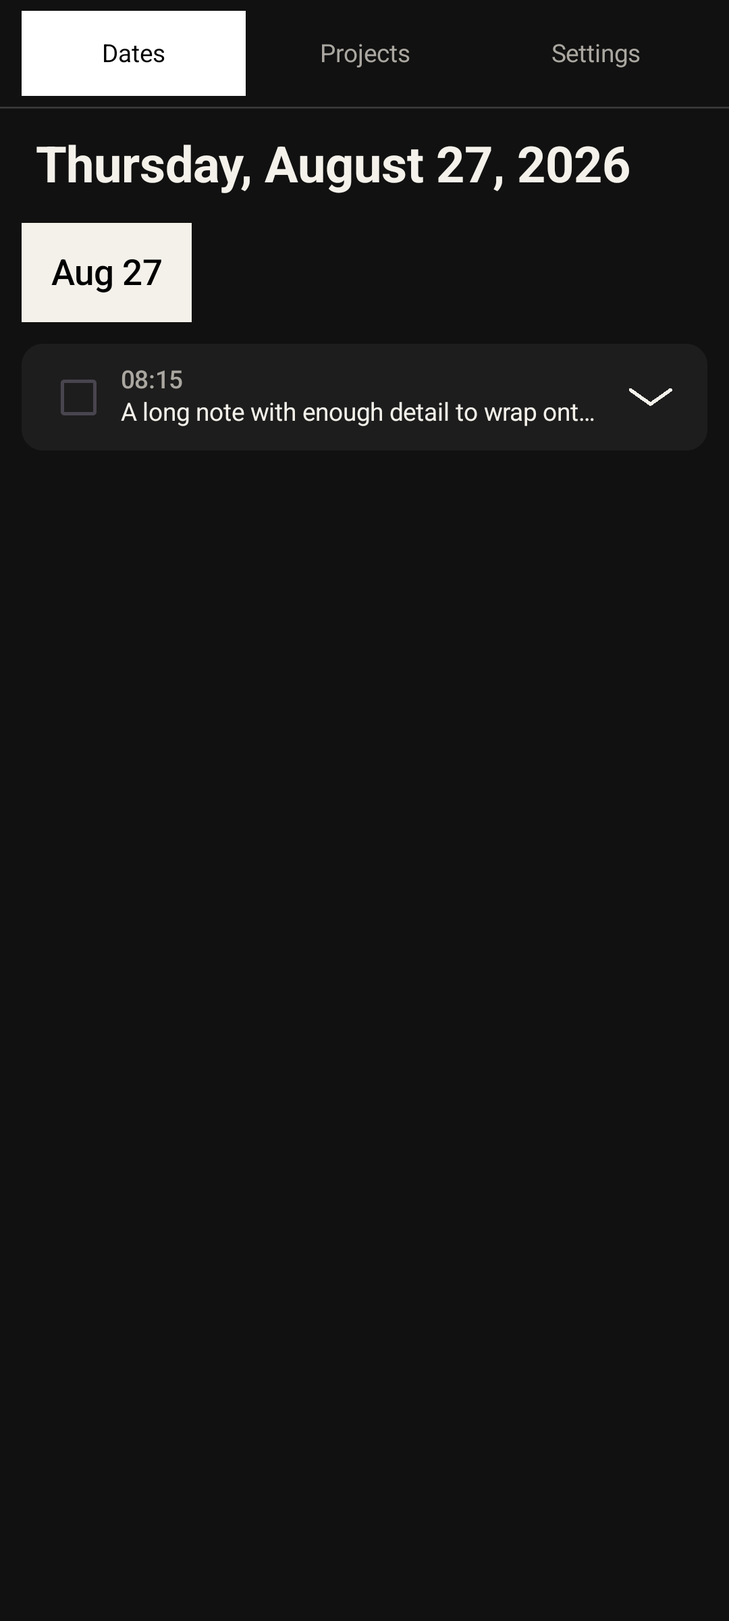
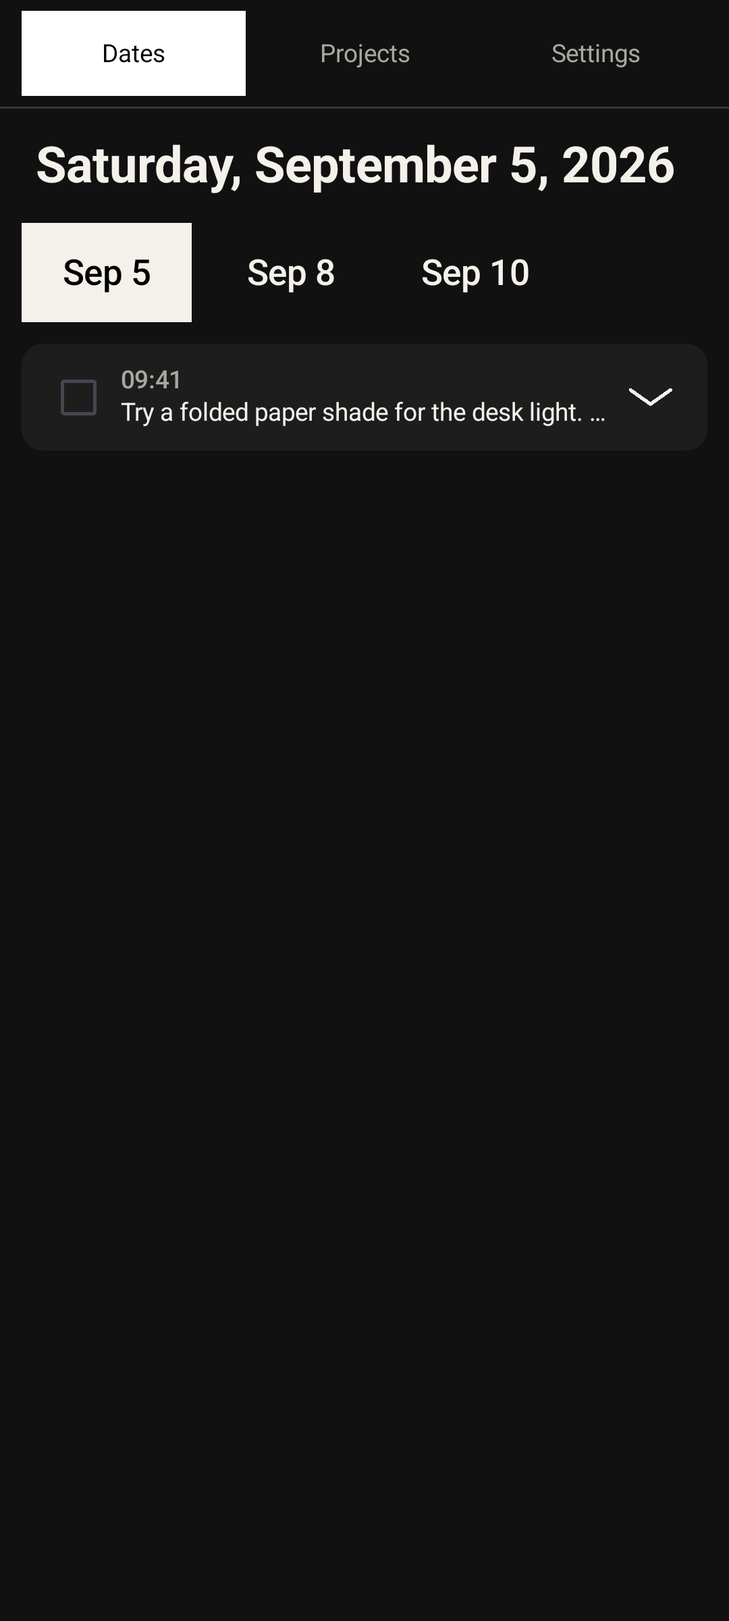
Release 1.0.13 with plain unselected Review dates

diff --git a/demos/sidenote-demo.html b/demos/sidenote-demo.html
@@ -1,18 +1,18 @@
 <!doctype html>
-<html lang="en"><head><meta charset="utf-8"><meta name="viewport" content="width=device-width,initial-scale=1"><meta name="color-scheme" content="dark"><meta name="sidenote-version" content="1.0.12"><title>SideNote · Interactive demo</title>
+<html lang="en"><head><meta charset="utf-8"><meta name="viewport" content="width=device-width,initial-scale=1"><meta name="color-scheme" content="dark"><meta name="sidenote-version" content="1.0.13"><title>SideNote · Interactive demo</title>
 <style>
 @font-face{font-family:Archivo;src:url('./archivo-1.woff2');font-weight:400;font-display:swap}@font-face{font-family:Archivo;src:url('./archivo-3.woff2');font-weight:600;font-display:swap}
 *{box-sizing:border-box}body{margin:0;background:#2e2e2e;color:#f4f1ea;font:16px/1.5 Archivo,Arial,sans-serif}button,input,textarea{font:inherit}button{cursor:pointer}button:disabled{cursor:default;opacity:.36}button:focus-visible,input:focus-visible,textarea:focus-visible{outline:2px solid #edc6cf;outline-offset:3px}button{touch-action:manipulation}.showcase{max-width:1060px;min-height:100svh;margin:auto;display:grid;grid-template-columns:minmax(260px,1fr) 290px;gap:48px;align-items:center;padding:24px}.phone-stage{height:min(930px,calc(100svh - 48px));min-height:300px;display:flex;align-items:center;justify-content:center;min-width:0}.phone-holder{position:relative;flex:none}.device{position:absolute;top:0;left:0;width:414px;height:898px;padding:9px;background:#070707;border-radius:44px;box-shadow:0 18px 65px #0005;transform-origin:top left}.screen{width:396px;height:880px;aspect-ratio:9/20;overflow:hidden;border-radius:35px;background:#111;color:#f4f1ea;font:16px/1.5 Roboto,Arial,sans-serif;display:flex;flex-direction:column;position:relative}.status{height:32px;flex:none;padding:8px 26px 0;display:flex;justify-content:space-between;font-size:12px;line-height:18px;position:relative}.camera{position:absolute;width:12px;height:12px;background:#020202;border-radius:50%;top:10px;left:calc(50% - 6px)}.system-icons{display:flex;gap:5px;align-items:center}.system-icons svg{width:13px;height:13px;fill:currentColor}.gesture{height:24px;flex:none;display:grid;place-items:center}.gesture:after{content:'';width:108px;height:4px;border-radius:5px;background:#eee}.app{flex:1;min-height:0;display:flex;flex-direction:column;overflow:hidden}.app button{border:0;background:transparent;color:inherit;min-height:48px;padding:8px 16px;font-size:14px}.app .pill{border-radius:28px;background:#f4f1ea;color:#111;min-width:96px}.native-nav{display:flex;align-items:center;padding:6px 12px;border-bottom:1px solid #3a3a3a}.native-nav button{flex:1;color:#aaa7a0}.native-nav button[aria-pressed=true]{font-weight:700;color:#f4f1ea}.native-nav .gear{flex:0 0 48px;font-size:22px;padding:0}.page{flex:1;min-height:0;overflow:auto;scrollbar-width:thin;scrollbar-color:#555 transparent;animation:enter .22s ease-out}.page h1{font:700 28px/1.3 Roboto,Arial,sans-serif;margin:14px 20px}.date-actions{display:flex;justify-content:space-between;padding:0 12px}.browse-label{font-size:14px;color:#aaa7a0;margin:8px 20px 0}.date-strip{display:flex;overflow:auto;padding:0 12px;gap:4px}.date-strip button{white-space:nowrap;color:#aaa7a0}.date-strip button[aria-pressed=true]{color:#f4f1ea;font-weight:700}.notes{padding:8px 12px 24px}.note{display:flex;background:#1d1d1d;border-radius:12px;margin:0 0 8px;padding:6px 8px;align-items:flex-start;gap:0}.check-wrap{width:48px;height:48px;flex:none;display:grid;place-items:center}.check-wrap input{width:19px;height:19px;accent-color:#f4f1ea;cursor:pointer}.note-content{min-width:0;flex:1;padding:4px 0}.time{color:#aaa7a0;font-size:14px}.note-text{white-space:nowrap;overflow:hidden;text-overflow:clip;margin:0;line-height:24px}.note.expanded .note-text{white-space:pre-wrap;overflow-wrap:anywhere}.note.processed .note-content{opacity:.64}.note.processed .note-text{text-decoration:line-through}.app .expand{width:48px;flex:none;padding:4px;font-size:22px}.project-list{padding:0 12px}.app .project-row{width:100%;display:flex;justify-content:space-between;text-align:left;background:#1d1d1d;border-radius:12px;padding:16px;margin:0 0 8px;font-size:16px}.project-row span{color:#aaa7a0}.project-intro{padding:8px 20px}.project-intro h1{margin:0;font-weight:400}.project-intro p{margin:0;color:#aaa7a0}.empty{padding:8px 20px;color:#aaa7a0}.screen.capture{background:#050505}.capture-page{position:relative;flex:1;display:flex;flex-direction:column;overflow:hidden}.blob-area{flex:1;display:grid;place-items:center}.app .blob{width:220px;height:220px;background:#d8d6d0;border-radius:48% 52% 50% 47%;padding:0;transition:background .18s,opacity .18s;box-shadow:inset 12px -8px 35px #a5a49c22}.app .blob.off{background:#626262}.app .blob.speaking{animation:speech .55s alternate infinite ease-in-out}.capture-page.typing .blob{opacity:0;pointer-events:none}.writing{flex:none;width:100%;padding:8px 0 16px;max-height:370px;overflow:auto;display:flex;align-items:center;flex-direction:column}.voice-status{height:48px;display:flex;align-items:center;justify-content:center;color:#a6a6a6;font-size:13px}.voice-status button{color:#f3f0e8}.chips,.suggestions{display:flex;gap:6px;flex-wrap:wrap;width:90%}.chips span{background:#252525;border-radius:20px;padding:5px 10px;font-size:13px;margin-bottom:8px}.suggestions button{padding:4px 10px}.writing textarea{width:90%;height:144px;flex:none;background:#050505;border:1px solid #727272;border-radius:4px;color:#f3f0e8;padding:14px 16px;font-size:18px;line-height:25px;resize:none;direction:initial}.writing textarea::placeholder{color:#a6a6a6;opacity:1}.discard-slot{height:56px;display:grid;place-items:center}.app .discard{font-size:16px}.settings{padding:16px 20px}.settings header{display:flex;align-items:center}.settings h1{margin:0 0 0 8px}.settings h2{font-size:22px;line-height:1.3;margin:12px 0 8px}.settings p{margin:8px 0;color:#aaa7a0}.settings section{padding-bottom:12px;border-bottom:1px solid #3a3a3a}.toggle{display:flex;justify-content:space-between;align-items:center;min-height:48px;gap:12px}.toggle input{width:38px;height:24px;accent-color:#f4f1ea}.intro .eyebrow{color:#edc6cf;font-size:12px;letter-spacing:.12em;text-transform:uppercase}.intro h2{font-size:36px;font-weight:600;letter-spacing:-.04em;margin:6px 0 12px}.intro p{color:#c1bebb;margin:0 0 22px}.controls{display:grid;grid-template-columns:1fr 1fr;gap:8px}.controls button{border:1px solid #77716f;border-radius:6px;background:transparent;color:#f4f1ea;padding:10px 12px;min-height:46px;line-height:1.25}.controls button:hover:not(:disabled){border-color:#edc6cf;background:#ffffff08}.controls .primary{background:#edc6cf;color:#2e2e2e;border-color:#edc6cf;grid-column:1/-1;font-weight:600}.control-label{margin:18px 0 8px;font-size:12px;letter-spacing:.08em;color:#c1bebb;text-transform:uppercase}.feedback{min-height:66px;margin-top:18px!important;font-size:14px;color:#edc6cf!important}.footnote{font-size:12px;line-height:1.6;color:#aaa7a0!important;margin-top:16px!important}.reset{color:#c1bebb;background:transparent;border:0;text-decoration:underline;padding:10px 0;min-height:44px}.sr-only{position:absolute;width:1px;height:1px;padding:0;overflow:hidden;clip:rect(0,0,0,0);white-space:nowrap}@keyframes enter{from{opacity:.5;transform:translateX(var(--enter-x,8%))}to{opacity:1;transform:none}}@keyframes speech{from{border-radius:48% 52% 50% 47%;transform:scale(.94)}to{border-radius:43% 57% 45% 54%;transform:scale(1.06)}}@media(max-width:670px){.showcase{grid-template-columns:1fr;gap:20px;padding:16px;max-width:480px}.phone-stage{height:min(820px,72svh);min-height:280px}.intro h2{font-size:28px}.intro p{margin-bottom:14px}.intro{padding:0 8px}.controls{grid-template-columns:1fr 1fr}.footnote{margin-bottom:8px!important}}@media(prefers-reduced-motion:reduce){*,*::before,*::after{animation:none!important;transition:none!important}}
 .app .blob{position:relative;background:transparent;box-shadow:none;border-radius:0}.app .blob::after{content:'';position:absolute;width:167.2px;height:167.2px;left:26.4px;top:26.4px;background:#d8d6d0;border-radius:50%}.app .blob.off{background:transparent}.app .blob.off::after{background:transparent;border:3px solid #626262}.app .blob.speaking{animation:none}.app .blob.speaking::after{animation:speech .55s alternate infinite ease-in-out}.showcase{grid-template-rows:1fr auto;gap:0 48px;align-content:center}.phone-stage{grid-column:1;grid-row:1/3;height:min(850px,calc(100svh - 48px));min-height:600px}.intro{grid-column:2;grid-row:1;align-self:end}.explore{grid-column:2;grid-row:2;align-self:start;padding-bottom:24px}.intro .simulation{font-size:13px;line-height:1.55;margin-bottom:24px}.guide{border-top:1px solid #77716f;padding-top:18px}.guide .guide-step{font-size:12px;color:#edc6cf;margin-bottom:6px}.guide h3{font-size:24px;line-height:1.2;letter-spacing:-.025em;margin:0 0 10px}.guide #guide-copy{font-size:15px;min-height:68px;margin-bottom:16px}.guide-action{width:100%;min-height:48px;padding:12px;border:1px solid #edc6cf;background:#edc6cf;color:#2e2e2e;border-radius:6px;font-weight:600}.guide-action:hover:not(:disabled){background:#f6dce2}.guide-action:disabled{opacity:.65}.feedback{min-height:42px}.explore summary{min-height:48px;padding:12px 0;cursor:pointer;color:#e1d9d5}.explore summary:focus-visible{outline:2px solid #edc6cf;outline-offset:3px}.explore .controls{margin-top:12px}@media(max-width:670px){.showcase{grid-template-columns:1fr;grid-template-rows:auto auto auto;gap:18px;padding:20px 16px}.intro{grid-column:1;grid-row:1;padding:0;align-self:auto}.phone-stage{grid-column:1;grid-row:2;height:auto;min-height:0;aspect-ratio:414/898;width:100%}.explore{grid-column:1;grid-row:3;padding:0 0 16px}.intro h2{font-size:26px}.intro .simulation{margin-bottom:16px}.guide #guide-copy{min-height:0;margin-bottom:12px}.feedback{min-height:0;margin:12px 0 0!important;font-size:13px}.app button{min-height:60px}.native-nav .gear{flex-basis:60px}.check-wrap{width:60px;height:60px}.app .expand{width:60px}.toggle{min-height:60px}}
 
-/* Native review contract: SideNote 1.0.12. */
+/* Native review contract: SideNote 1.0.13. */
 .native-nav{flex:none;gap:4px}.app .native-nav button{min-height:48px;padding:10px 4px;font-weight:400;border-radius:0;transition:background .22s,color .22s}.app .native-nav button[aria-pressed=true]{background:#fff;color:#000;font-weight:400}
-.date-strip{gap:8px}.app .date-strip button{min-width:96px;min-height:56px;padding:12px 16px;background:#1d1d1d;border:1px solid #555;border-radius:0;color:#f4f1ea;font-size:20px;font-weight:500}.app .date-strip button[aria-pressed=true]{background:#f4f1ea;border-color:#f4f1ea;color:#000}
+.date-strip{gap:8px}.app .date-strip button{min-width:96px;min-height:56px;padding:12px 16px;background:transparent;border:1px solid transparent;border-radius:0;color:#f4f1ea;font-size:20px;font-weight:500}.app .date-strip button[aria-pressed=true]{background:#f4f1ea;border-color:#f4f1ea;color:#000}
 .note-text{height:24px;text-overflow:ellipsis;transition:height .22s cubic-bezier(.4,0,.2,1)}.app .expand{width:48px;height:48px;min-height:48px;display:grid;place-items:center}.expand svg{width:28px;height:16px;transition:transform .22s cubic-bezier(.4,0,.2,1)}.expand[aria-expanded=true] svg{transform:rotate(180deg)}.expand[hidden]{display:none}.note:not(.has-overflow) .note-content{margin-right:48px}.page{animation-duration:.22s}
 .toggle input[role=switch]{appearance:none;-webkit-appearance:none;position:relative;flex:0 0 52px;width:52px;height:32px;margin:8px 0;border:2px solid #938f99;border-radius:20px;background:#49454f;cursor:pointer;transition:background .22s,border-color .22s}.toggle input[role=switch]::before{content:'';position:absolute;width:16px;height:16px;left:6px;top:6px;border-radius:50%;background:#cac4d0;transition:transform .22s,width .22s,height .22s,top .22s,background .22s}.toggle input[role=switch]:checked{background:#f4f1ea;border-color:#f4f1ea}.toggle input[role=switch]:checked::before{width:24px;height:24px;top:2px;transform:translateX(16px);background:#33312e}
 </style></head><body>
 <main class="showcase"><aside class="intro"><div class="eyebrow">Interactive browser demo</div><h2>SideNote<span style="color:#edc6cf">.</span></h2><p class="simulation">Speech and phone gestures are simulated; notes reset on reload.</p><section class="guide" aria-labelledby="guide-title"><p class="guide-step" id="guide-step">Step 1 of 4</p><h3 id="guide-title">Open Capture</h3><p id="guide-copy">Get a thought out of your head, then keep going.</p><button class="guide-action" id="guide-action">Open Capture</button><p class="guide-announcement sr-only" id="guide-announcement" role="status" aria-live="polite" aria-atomic="true"></p></section><p class="feedback" id="feedback" role="status" aria-live="polite">Open a note to expand it, or try Capture.</p></aside><div class="phone-stage" aria-label="Pixel 8 screen demonstration"><div class="phone-holder"><div class="device"><div class="screen"><div class="status" aria-hidden="true"><span>09:41</span><span class="camera"></span><span class="system-icons"><svg viewBox="0 0 16 16"><path d="M1 6a11 11 0 0 1 14 0L8 14z"/></svg><svg viewBox="0 0 16 16"><path d="M1 15 15 1v14z"/></svg><svg viewBox="0 0 16 16"><path d="M6 0h4v2h2v14H4V2h2z"/></svg></span></div><div id="app" class="app"></div><div class="gesture" aria-hidden="true"></div></div></div></div></div>
-<details class="explore"><summary>Explore all controls</summary><p class="footnote">Type inside the phone, browse Dates and Projects, or open Settings. This reconstruction uses fictional notes and requests no microphone, account, or file access.</p><div class="controls"><button id="power">Hold Power · open Capture</button><button id="capture">Quick Tap</button><button id="review">Open app · Review</button><button id="phrase">Speak sample</button></div><div class="control-label">Simulate finishing a capture</div><div class="controls"><button id="screenoff">Screen off</button><button id="facedown">Place face down</button><button id="background">Leave app</button><button id="wake">Wake phone</button></div><button class="reset" id="reset">Reset demo</button><p class="footnote">Android v1.0.12 · Pixel 8 screen<br>Scaled proportionally from 1080 × 2400.</p></details></main>
+<details class="explore"><summary>Explore all controls</summary><p class="footnote">Type inside the phone, browse Dates and Projects, or open Settings. This reconstruction uses fictional notes and requests no microphone, account, or file access.</p><div class="controls"><button id="power">Hold Power · open Capture</button><button id="capture">Quick Tap</button><button id="review">Open app · Review</button><button id="phrase">Speak sample</button></div><div class="control-label">Simulate finishing a capture</div><div class="controls"><button id="screenoff">Screen off</button><button id="facedown">Place face down</button><button id="background">Leave app</button><button id="wake">Wake phone</button></div><button class="reset" id="reset">Reset demo</button><p class="footnote">Android v1.0.13 · Pixel 8 screen<br>Scaled proportionally from 1080 × 2400.</p></details></main>
 <script>
 (()=>{'use strict';
 const $=s=>document.querySelector(s), app=$('#app'), screen=$('.screen');

diff --git a/portfolio/page.html b/portfolio/page.html
@@ -5,7 +5,7 @@
         <figure class="sidenote-hero-photo"><img src="assets/sidenote-handheld-hero-v2.webp" width="1536" height="1024" alt="A hand holding SideNote Capture mid-use, with a listening blob and a partially transcribed thought" decoding="async"><figcaption>Staged mockup of Capture in use.</figcaption></figure>
         <div class="sidenote-introduction"><p>SideNote is a <b>frictionless place to put down a thought</b> without breaking your flow. Jot it down in seconds and keep going. When you’re ready, everything you captured is waiting in Review — organized by day and time, with checkboxes to help you work through it.</p><a class="button-link" href="assets/sidenote-demo.html" data-open-demo aria-haspopup="dialog">Try capturing a thought <span aria-hidden="true">↗</span></a></div>
       </section>
-      <div class="sidenote-metadata"><dl class="project-facts"><div><dt>Role</dt><dd>Design & development</dd></div><div><dt>Context</dt><dd>Personal Android app</dd></div><div><dt>Year</dt><dd>2026</dd></div><div><dt>Version</dt><dd>1.0.12</dd></div></dl><nav class="section-nav" aria-label="SideNote sections"><a href="#sidenote/overview">Overview</a><a href="#sidenote/interaction">Interaction</a><a href="#sidenote/demo">Try it</a></nav></div>
+      <div class="sidenote-metadata"><dl class="project-facts"><div><dt>Role</dt><dd>Design & development</dd></div><div><dt>Context</dt><dd>Personal Android app</dd></div><div><dt>Year</dt><dd>2026</dd></div><div><dt>Version</dt><dd>1.0.13</dd></div></dl><nav class="section-nav" aria-label="SideNote sections"><a href="#sidenote/overview">Overview</a><a href="#sidenote/interaction">Interaction</a><a href="#sidenote/demo">Try it</a></nav></div>
       <section id="sidenote-interaction" class="case-section sidenote-interaction">
         <div class="sidenote-section-heading"><p class="eyebrow">The interaction</p><h2>Put it down & keep going</h2></div>
         <ol class="sidenote-story">
@@ -13,7 +13,7 @@
           <li><div class="sidenote-story-visual sidenote-gesture"><img src="assets/sidenote-story/face-down.png" width="396" height="880" alt="Illustration of a phone turning from screen-up to face-down on a surface" loading="lazy"></div><div class="sidenote-step-title"><span aria-hidden="true">02</span><h3>Keep going</h3></div><p>Trigger a note save by fliping the phone face-down, or by turning the screen off. Then carry on with what you were doing.</p></li>
           <li><div class="sidenote-story-visual"><img src="assets/sidenote-story/review.webp" width="396" height="880" alt="Review showing the same folded paper shade thought saved at 09:41 with its Studio tag" loading="lazy"></div><div class="sidenote-step-title"><span aria-hidden="true">03</span><h3>Review</h3></div><p>Come back to your thoughts when you’re ready. <b>Review</b> has all your thoughts ordered by date and time. Work through and check them off.</p></li>
         </ol>
-        <p class="sidenote-visual-note">Browser reconstruction of SideNote 1.0.12, using a fictional note. Phone gesture illustrated.</p>
+        <p class="sidenote-visual-note">Browser reconstruction of SideNote 1.0.13, using a fictional note. Phone gesture illustrated.</p>
         <div class="sidenote-decisions"><div><h3>Capture takes a moment.</h3><p>A thought can arrive in the middle of something else. Give it somewhere to wait, without having to decide what to do with it before you carry on.</p></div><div><h3>Notes remain ordinary files.</h3><p>Notes are stored as <b>local Markdown</b> in a folder of your choice. Project tags and processed states live in those same files, with no SideNote account or separate note database.</p></div></div>
       </section>
       <section id="sidenote-demo" class="case-section demo-section"><div class="sidenote-demo-copy"><p class="eyebrow">Experience the interaction</p><h2>Try putting a thought down.</h2><p>Capture a thought, put the phone down, and see it waiting in Review.</p></div><a class="button-link" href="assets/sidenote-demo.html" data-open-demo aria-haspopup="dialog">Try capturing a thought <span aria-hidden="true">↗</span></a><p class="demo-note">Browser demo. Speech and phone gestures are simulated; notes reset on reload.</p></section>

diff --git a/app/src/androidTest/java/com/sidenote/app/review/ui/ReviewScreenTest.kt b/app/src/androidTest/java/com/sidenote/app/review/ui/ReviewScreenTest.kt
@@ -166,6 +166,44 @@ class ReviewScreenTest {
     }
 
     @Test
+    fun onlySelectedDateHasBackgroundBeforeAndAfterSelection() {
+        val dates = listOf("2026-09-05", "2026-09-08", "2026-09-10").map(LocalDate::parse)
+        val note = entry("2026-09-05", "09:41", "Try a folded paper shade for the desk light. @Studio", false, 0)
+        var state by mutableStateOf(ReviewState(
+            days = dates.map { ReviewDay(it, if (it == dates.first()) listOf(note) else emptyList()) },
+            selectedDate = dates.first(),
+        ))
+        setContent {
+            ReviewScreen(
+                state = state, onShowDates = {}, onShowProjects = {},
+                onPreviousDay = {}, onNextDay = {}, onOpenSettings = {},
+                onToggleExpanded = {}, onProcessedChange = { _, _ -> },
+                onOpenProject = {}, onOpenSourceDay = {},
+                onSelectDate = { state = state.copy(selectedDate = it) },
+            )
+        }
+        fun assertDateSurfaces() {
+            dates.forEach { date ->
+                val node = compose.onNodeWithContentDescription("Open date $date")
+                val bitmap = node.captureToImage().asAndroidBitmap()
+                val expected = if (date == state.selectedDate) 0xFFF4F1EA.toInt() else 0xFF111111.toInt()
+                // Sample the perimeter and inner padding to catch both borders and fills.
+                listOf(0 to 0, 1 to bitmap.height / 2, 8 to 8,
+                    bitmap.width - 1 to bitmap.height - 1).forEach { (x, y) ->
+                    assertThat(bitmap.getPixel(x, y)).isEqualTo(expected)
+                }
+                if (date == state.selectedDate) node.assertIsSelected()
+            }
+        }
+        saveScreenshot("review-dates-selected-first.png")
+        assertDateSurfaces()
+        compose.onNodeWithContentDescription("Open date ${dates[1]}").performClick()
+        compose.waitForIdle()
+        saveScreenshot("review-dates-selected-second.png")
+        assertDateSurfaces()
+    }
+
+    @Test
     fun multilineNoteWithShortFirstLineStillExposesExpansion() {
         val note = entry("2026-08-27", "08:15", "First line\nMore detail", false, 0)
         var state by mutableStateOf(

diff --git a/app/src/main/java/com/sidenote/app/review/ui/ReviewScreen.kt b/app/src/main/java/com/sidenote/app/review/ui/ReviewScreen.kt
@@ -309,8 +309,8 @@ private fun DatesContent(
                     contentAlignment = Alignment.Center,
                     modifier = Modifier
                         .sizeIn(minWidth = 96.dp, minHeight = 56.dp)
-                        .background(if (selected) ReviewText else ReviewSurface, RectangleShape)
-                        .border(1.dp, if (selected) ReviewText else Color(0xFF555555))
+                        .background(if (selected) ReviewText else Color.Transparent, RectangleShape)
+                        .border(1.dp, if (selected) ReviewText else Color.Transparent)
                         .semantics { contentDescription = "Open date ${day.date}" }
                         .selectable(selected = selected, enabled = interactive, role = Role.Tab) {
                             onSelectDate(day.date)

diff --git a/portfolio/plans/1.0.12.md b/portfolio/plans/1.0.12.md
@@ -2,11 +2,14 @@
 
 Status: complete
 
-Impact: Bring the portfolio to the current native Review UI and maintain one canonical demo/content/image bundle in SideNote.
+Impact: Local 2026-09-17 change to version 1.0.12/code13: show only the selected Review date with its existing light rectangular background; inactive dates become plain text. Preserve selected styling and all date/tab transitions. No release or publication is part of this change.
 
-- [x] Demo: replace Previous/Next with large date targets, match shared rectangular navigation and Settings, and use overflow-only animated note disclosure.
-- [x] Descriptions: explain assistant setup for Power capture, continuous dictation, tappable dates, shared navigation, expandable notes and Markdown storage; show version 1.0.12.
-- [x] Screenshots: regenerate Capture/Review browser story with the same fictional Studio note; add fresh native Review/Settings captures from verified 1.0.12/code13 emulator tests. Retain reviewed staged hero/thumbnail and unchanged gesture illustration, labelled accurately. Per-image provenance is in manifest.json; native evidence in screenshots/NATIVE-PROVENANCE.md.
-- [x] Verify: desktop 1440px/mobile 375px images, no horizontal overflow, guided capture/save, Settings/date navigation, short/long note disclosure, embedded Escape/focus restoration and reduced motion. Validate importer and freshness failures before importing the sealed bundle.
+- [x] Descriptions: current capture/review workflow copy remains accurate; no claims change.
+- [x] Demo: make inactive date background and border transparent; preserve selected styling, target dimensions, keyboard focus and motion.
+- [x] Screenshots: capture updated browser Review using the same fictional Studio note and native multi-date Review; inspect remaining assets and record specific reuse reasons in manifest.
+- [x] Verify: native debug/test build and complete ReviewScreenTest class passed (12 tests, 67.132 seconds); both native selected-date screenshots visually inspected. Browser desktop/mobile date/tab transitions and guided capture/save passed. Provisional local PersonalSite import completed and visually verified; no publication.
 
-Evidence: Native debug/test build succeeded and four targeted instrumentation tests passed. Browser demo/page checks passed and desktop/mobile screenshots were inspected. Four importer tests and fourteen source-bundle tests pass. Native Android behavior remains separate from the browser simulation; no real microphone/sensor/physical-phone acceptance is claimed. The existing hero is a staged mockup, not a current native screenshot.
+Evidence: Current local 1.0.12/code13 debug/test build passed; full ReviewScreenTest class passed (12 tests, 67.132 seconds). Native first/second selected-date captures and browser desktop/mobile screenshots were visually inspected. Fourteen portfolio tests and five PersonalSite importer tests passed; sealed bundle freshness check passed. Native and browser screenshot provenance remain distinct.
+Browser evidence: desktop 1440px and mobile 375px screenshots visually inspected; no horizontal overflow. Guided speech-sample/face-down-save journey passed. Date selection switches the sole visible rectangle, with transparent unselected borders/backgrounds and no unfocused outline. Date and tab animation names remain enter. Recreated browser review.webp at 396 x 880 with the same fictional Studio note. Remaining five assets visually inspected and retention rationale recorded in manifest. Native evidence completed: both selection states visually inspected and native-review.webp refreshed losslessly; provenance records the local working tree and APK hash. Source checks passed and the sealed bundle was provisionally imported to local PersonalSite.
+
+Local site evidence: imported dirty SideNote working tree based on 7a5f60779b13b387036189b92c4d3f9480c0f9e1. Desktop 1440px/mobile 375px page screenshots visually inspected; all four displayed story/hero images load, no horizontal overflow, embedded date/tab navigation passes, and Escape closes after the existing animation and restores launcher focus. No commit or publication; reimport after the source commit before committing PersonalSite. Mechanical Impeccable detector reviewed: three pre-existing findings (screen wrapper padding, Roboto used to match Android, and browser-demo kicker), unrelated to the date-only refinement; no additional scope changes.

diff --git a/portfolio/screenshots/NATIVE-PROVENANCE.md b/portfolio/screenshots/NATIVE-PROVENANCE.md
@@ -18,3 +18,15 @@ These are authentic native Compose screenshots with synthetic test states, not b
 All four targeted instrumentation tests passed: OK (4 tests), 31.699 seconds. PNGs pulled from /sdcard/Android/data/com.sidenote.app/files/. Capture listening, expanded Review, and Settings images visually inspected after pull. Original screenshots remain unedited.
 
 The emulator's restored snapshot initially stalled installation; cold boot with -no-snapshot resolved it. Captures were taken only after both fresh APK installs succeeded and installed package version was verified as 1.0.12/code13.
+
+## Local Review date styling update — 2026-09-17
+
+Fresh native Compose capture on emulator-5554 on 2026-09-17 from local modified SideNote 1.0.12/code13, based on 7a5f60779b13b387036189b92c4d3f9480c0f9e1; fictional multi-date ReviewScreenTest fixture, Sep 5 selected with Sep 8/Sep 10 plain text. Lossless WebP from unedited native PNG. Verified native tests: OK (12 tests), 67.132 seconds; complete ReviewScreenTest class; debug and test APK build successful. Local working tree, not a committed or published release; see NATIVE-PROVENANCE.md.
+
+Debug APK SHA-256: daa66f27c3b4aa0f7aec58f56494693658ec55383337e2d9bfcd3739407cc575. Captured dimensions: 1080 x 2400.
+
+The baseline regression reproduced an inactive grey border (#555555) against the page (#111111). After the fix, native screenshots with the first and second dates selected were visually reviewed; inactive targets are transparent while the selected rectangle is retained. Existing date/tab transition tests were included in the full ReviewScreenTest class. These synthetic emulator captures make no physical-device or real-note claim. Earlier provenance above remains applicable to unchanged native Settings imagery.
+
+## Release 1.0.13/code14 image review — 2026-09-17
+
+The corrected Review screenshot remains the authentic fixed-source 1.0.12/code13 capture described above. Release 1.0.13 changes version metadata only; native Review styling and screenshot contents are identical to the verified source. Settings retains its earlier documented capture. No image is claimed to be a fresh 1.0.13 capture.

diff --git a/portfolio/plans/1.0.13.md b/portfolio/plans/1.0.13.md
@@ -1,0 +1,18 @@
+# Personal site update — 1.0.13
+
+Status: complete
+
+Impact: Release the verified Review date styling change as SideNote 1.0.13/code14. Only selected dates retain their existing light rectangle. This version bump adds no UI changes beyond the verified local 1.0.12 source change.
+
+- [x] Descriptions: preserve approved page copy; update displayed version only.
+- [x] Demo: update represented version; retain verified date styling, interactions and motion.
+- [x] Screenshots: reuse inspected native and browser captures made from fixed 1.0.12/code13 source, explicitly recording original capture version and unchanged 1.0.13 UI.
+- [x] Verify: complete prior native/browser visual checks remain applicable to this version-only bump. Release bundle reviewed for sealing and validation. Publication is a subsequent release step through the isolated SideNote importer workflow after source commit; its deployed lock revision and live page/assets require verification before reporting the site current.
+
+Evidence: Native date styling verified with 12 ReviewScreenTest tests and both native selection-state screenshots. Desktop/mobile demo/page visual review, guided capture/save, date/tab navigation, image loading and Escape focus restoration passed. Only release version metadata changes now. Source commit, release install and live deployment evidence will be recorded by the release handoff.
+
+Release verification: signed 1.0.13/code14 using the existing release certificate; installed in place on the connected Pixel 8 on 2026-09-17. Installed package version and SHA-256 match the release APK; MainActivity launch returned Status: ok. APK SHA-256: 31328E41A51ED3FD33919CB13DAFE3635791D85D950AEEF4EB7BFF9C7F2C5A4D. No private phone notes were used for published assets.
+
+
+Release build and signature/alignment verification passed. lintRelease passed: 0 errors, 7 warnings, 1 hint. User explicitly authorized source and site publication on 2026-09-17. Publish the verified source bundle, then verify the isolated PersonalSite sync and live assets.
+
